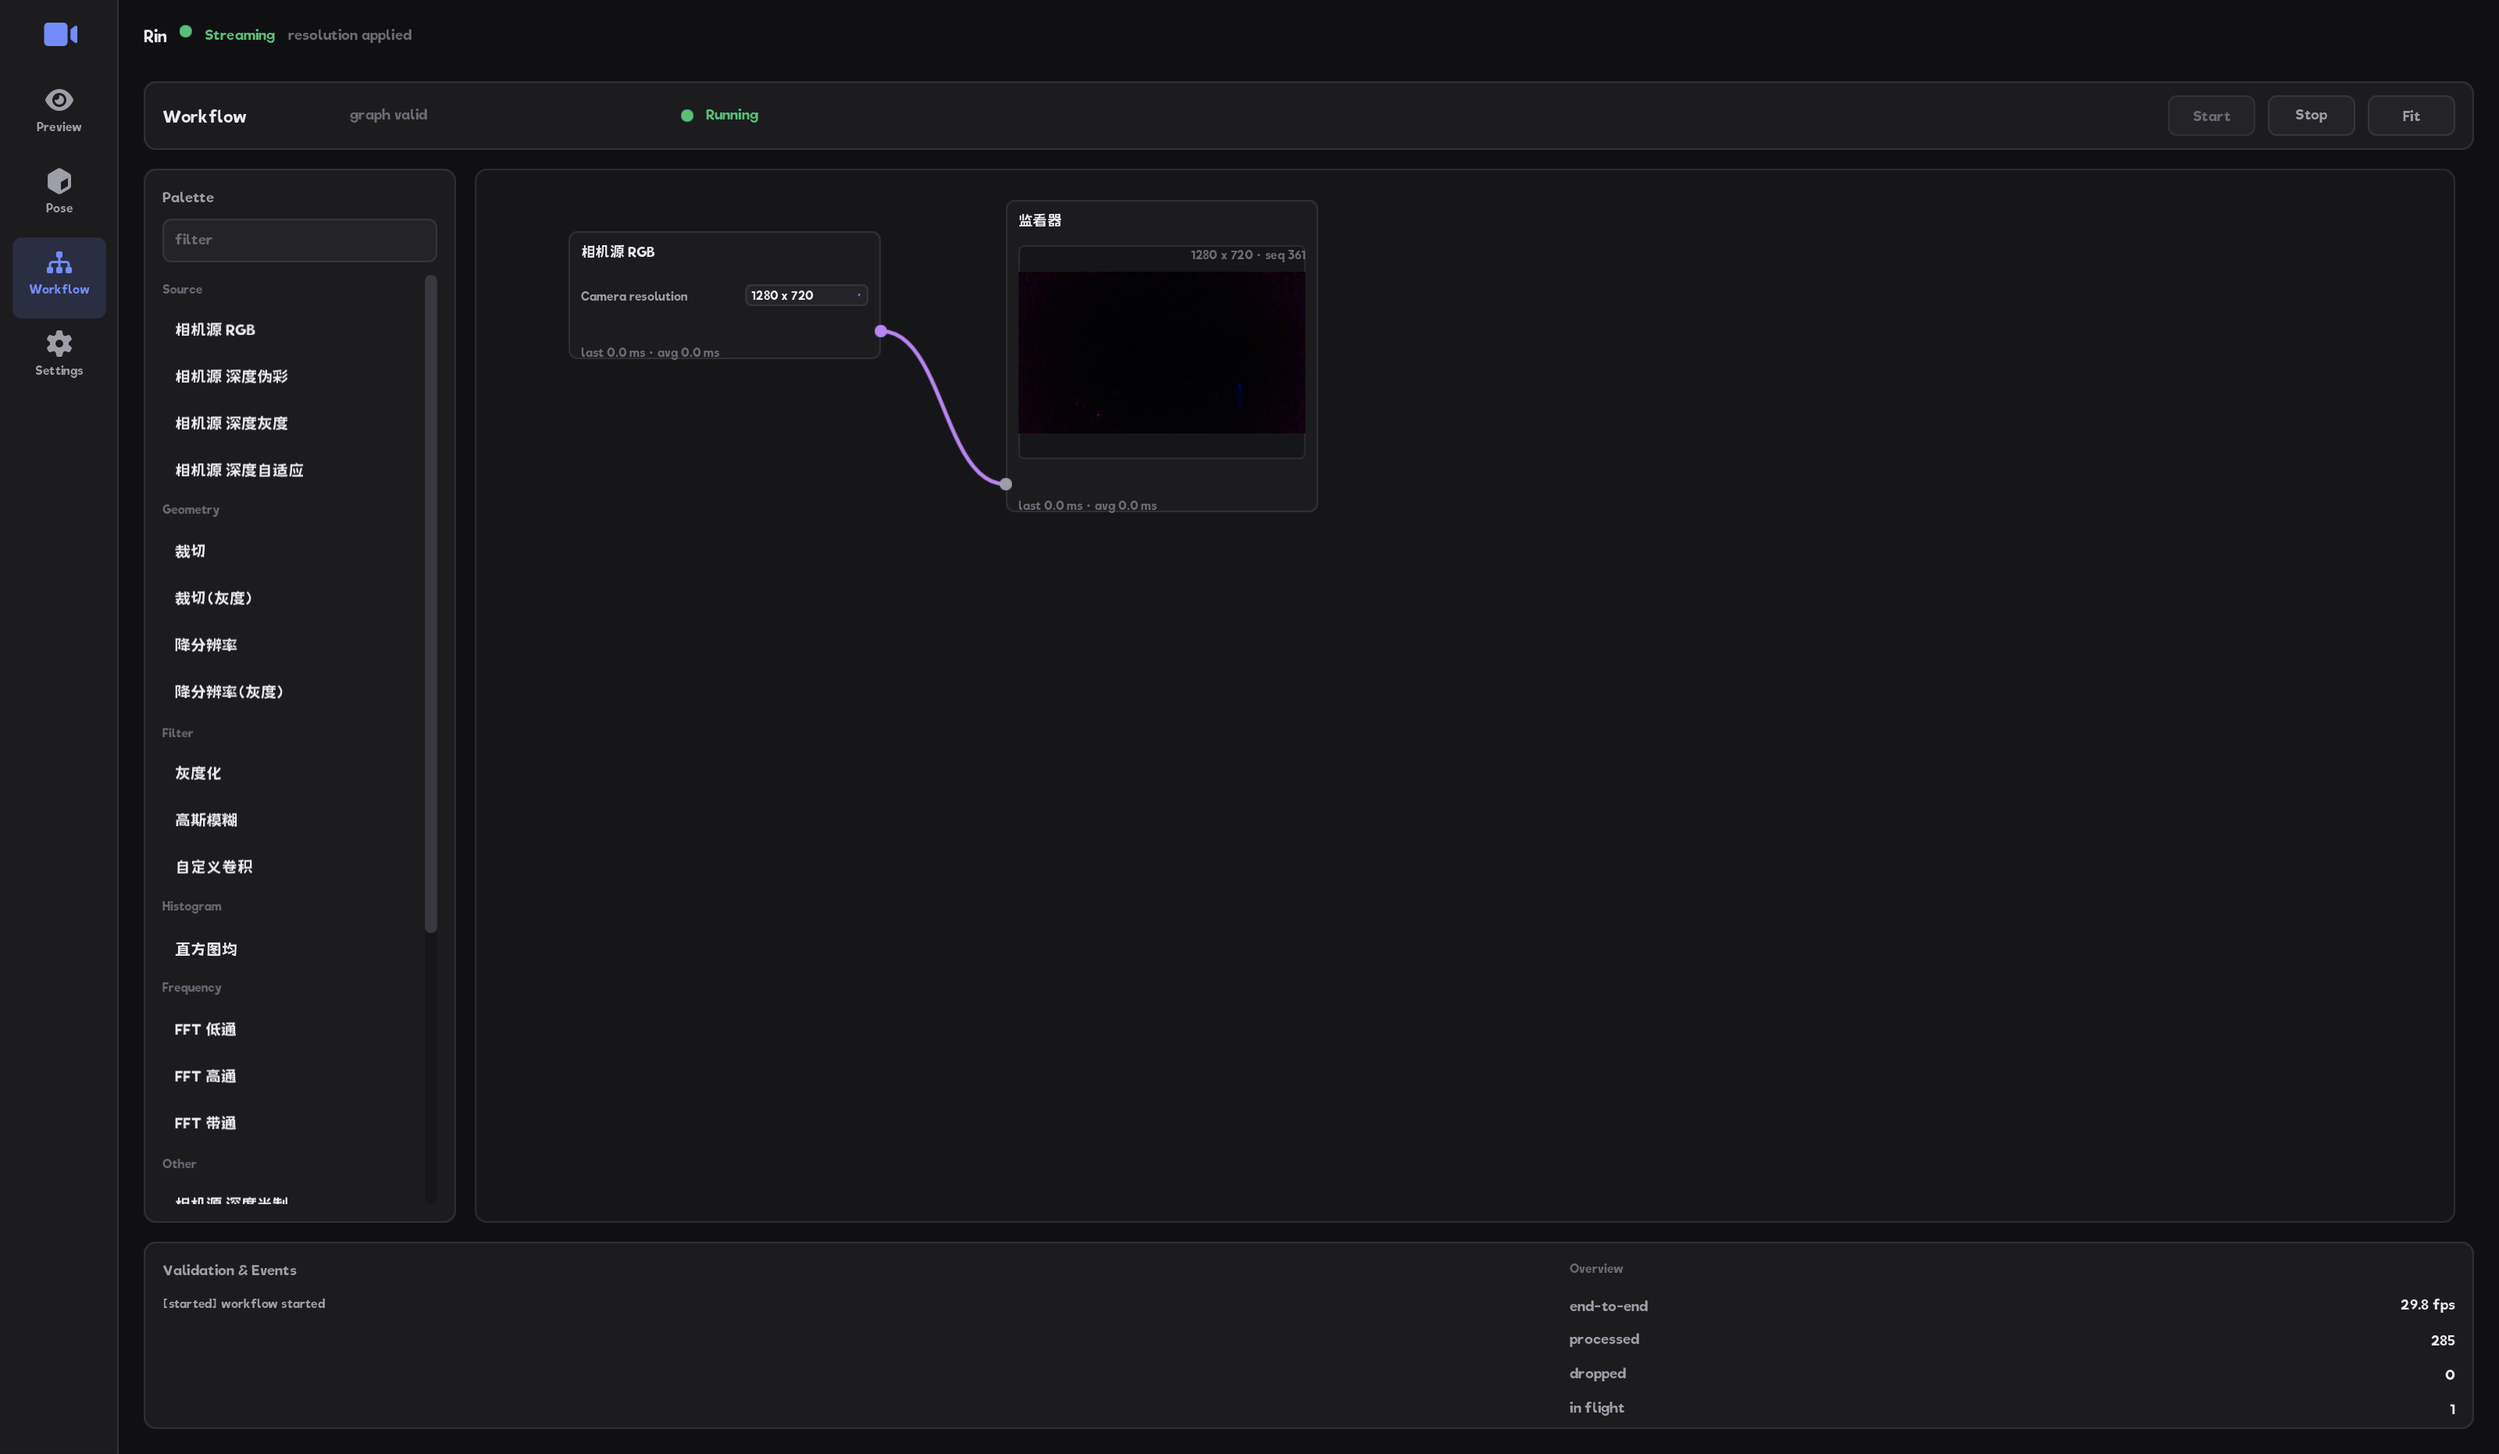
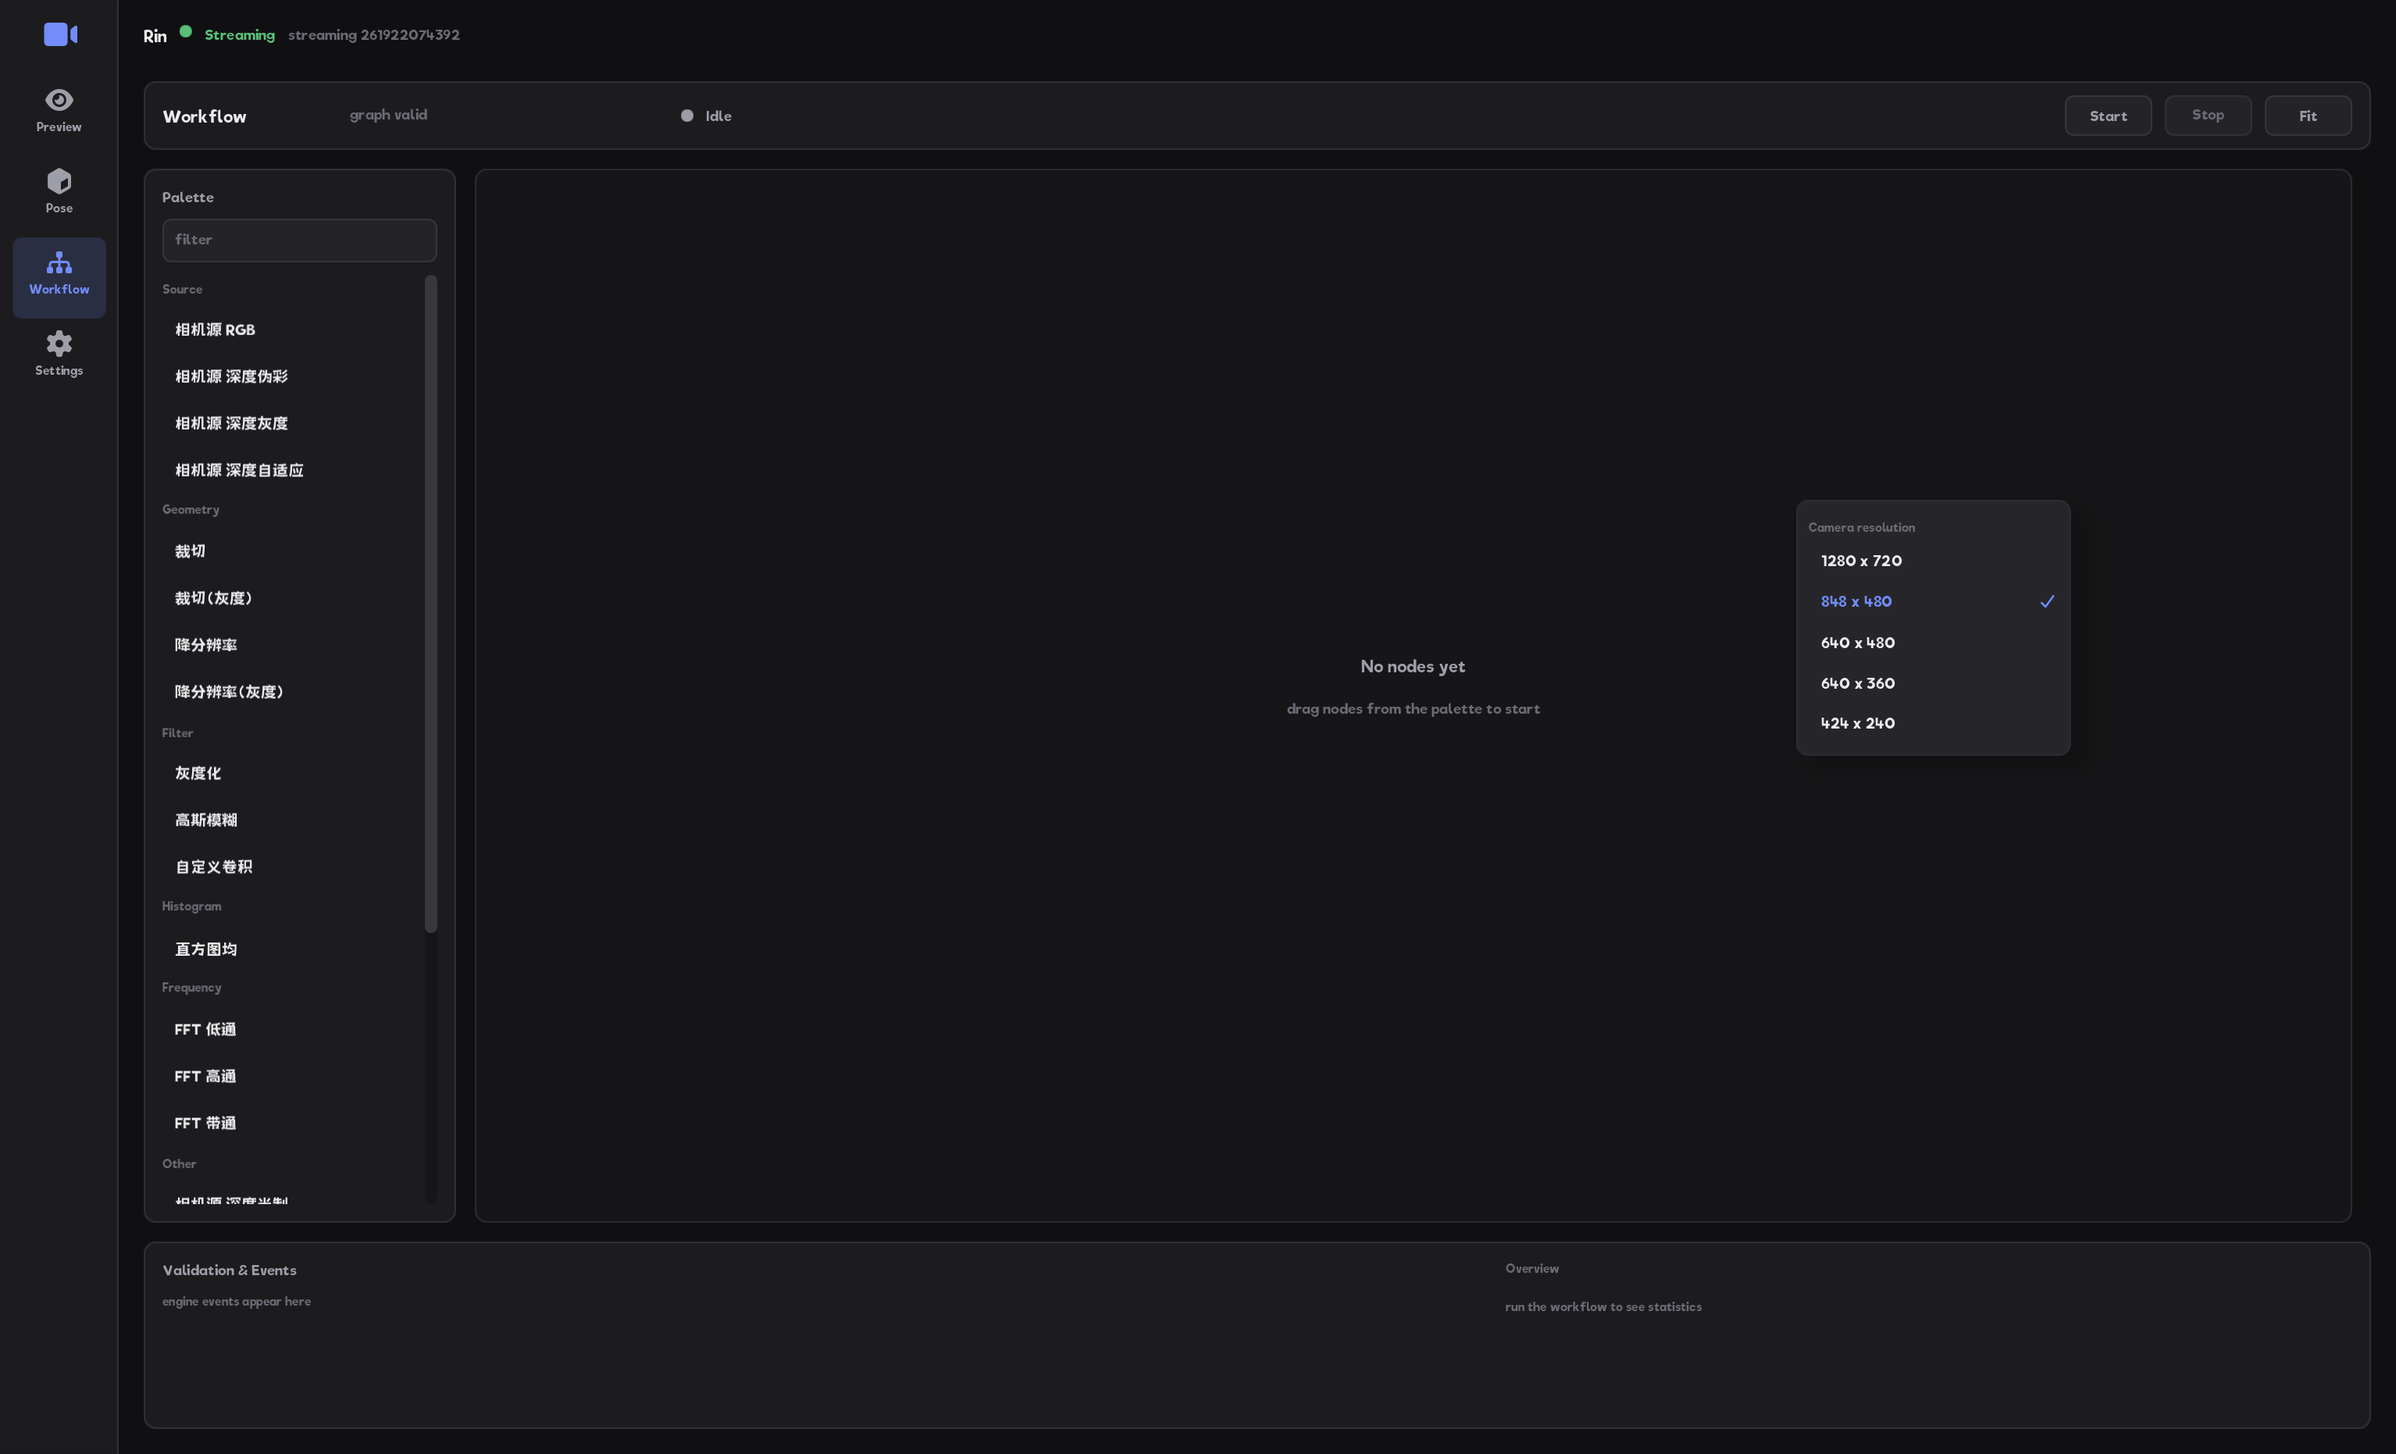
fix(viewer): wire resolution menu overlay and right-click create menu
resolve 专家升级通道定位的真实根因：分辨率下拉浮层的 composer
composeWorkflowResolutionMenu 定义后从未被调用（overlay 接线脚本当初中断
未写盘、被误判已落地）——两轮'点击无响应'实为回调触发后无人消费状态；
'components::mouseArea 在此嵌套下不响应'的结论不成立（无头探针 1:1 复刻
实证 EUI 输入路径正常，DEC-021 决策 4 分层设计无罪），相关注释与文档勘误。
连带修复同类缺口：右键创建菜单 menuOpen 自 M5-03 起仅被消费从未被置位
（真实右键从未打开过），补 ContextMenu 分支置位。

- app.cpp overlay 层调用分辨率浮层（selectedIndex 每帧刷新）；Esc 收起。
- 画布 onPress ContextMenu 分支置位 menuOpen（窗口坐标）。
- 创建菜单与分辨率浮层互斥（双 scrim 不叠加）。
- 验证改用像素断言（不再目测）：分辨率菜单面板 352x324（=2x176x164 精确
  匹配）、创建菜单 380x1330、基线无面板；截图替换为真实浮层。

diff --git a/apps/viewer/node_canvas.hpp b/apps/viewer/node_canvas.hpp
@@ -833,10 +833,11 @@ inline void composeInlineParams(eui::Ui& ui, WorkflowCanvasState& state,
             .maxWidth(innerW * 0.55f * s)
             .build();
         // 下拉触发器（M11 验收反馈：下拉选择；点击打开窗口级选项浮层，
-        // composeWorkflowResolutionMenu）。触发用 rect.onClick——与本位置
-        // 既有实证机制一致（M11 首轮点击循环胶囊即此路径；components::
-        // mouseArea 在此嵌套下不响应，验收实证）。浮层窗口坐标 compose 期
-        // 精确计算（画布区矩形 + 节点屏幕原点 + 触发器屏幕偏移）。
+        // composeWorkflowResolutionMenu，由 app.cpp overlay 层合成）。触发用
+        // rect.onClick；浮层窗口坐标 compose 期精确计算（画布区矩形 + 节点
+        // 屏幕原点 + 触发器屏幕偏移）。勘误（resolve 升级分析）：首版
+        // "mouseArea 在此嵌套下不响应"的结论不成立——EUI 输入路径经无头
+        // 探针实证正常，真实断点是浮层 composer 从未接线。
         const float pillW = innerW * 0.45f - kSpace1;
         const float pillX = (innerX + innerW - pillW) * s;
         const float pillY = (rowY + 2.0f) * s;
@@ -852,6 +853,7 @@ inline void composeInlineParams(eui::Ui& ui, WorkflowCanvasState& state,
             .border(kBorderHairline, tokens.inputBorder)
             .states(tokens.input, tokens.inputBorderHover, tokens.inputBorderHover)
             .onClick([&state, menuX, menuY] {
+                state.menuOpen = false;  // 与创建菜单互斥（双 scrim 不可叠加）。
                 state.resolutionMenuOpen = true;
                 state.resolutionMenuPos = {menuX, menuY};
             })
@@ -1418,6 +1420,16 @@ inline void composeWorkflowCanvas(eui::Ui& ui, WorkflowCanvasState& state,
                                                   event.modifiers.alt);
                     if (!result.message.empty()) {
                         state.feedback = result.message;
+                    }
+                    if (result.kind == PressResult::Kind::ContextMenu) {
+                        // 右键空白处打开创建菜单（§5.2.2；menuPos 为窗口坐标，
+                        // composeWorkflowCreateMenu 全窗浮层）。接线修复：自
+                        // M5-03 起 menuOpen 仅被消费从未被置位，真实右键从未
+                        // 打开过（脚本化验证只直改状态），随 M11 验收排查一并
+                        // 修复；与分辨率浮层互斥（双 scrim 不可叠加）。
+                        state.menuOpen = true;
+                        state.menuPos = {event.globalX, event.globalY};
+                        state.resolutionMenuOpen = false;
                     }
                     if (result.graphChanged) {
                         // 右键删除节点等即时变更：与松开路径同一引擎同步出口。

diff --git a/apps/viewer/app.cpp b/apps/viewer/app.cpp
@@ -1002,6 +1002,9 @@ void compose(eui::Ui& ui, const eui::Screen& screen) {
                 composeWorkflowCreateMenu(ui, ctx.workflowCanvas, ctx.workflow.get(), screen.width,
                                           screen.height);
                 composeWorkflowDragGhost(ui, ctx.workflowCanvas);
+                ctx.cameraResolutionBinding.selectedIndex = ctx.resolutionIndex.get();
+                composeWorkflowResolutionMenu(ui, ctx.workflowCanvas, &ctx.cameraResolutionBinding,
+                                              screen.width, screen.height);
             } else if (ctx.nav.current == WorkbenchPage::Preview) {
                 std::vector<std::string> deviceLabels;
                 deviceLabels.reserve(ctx.deviceOptions.size());
@@ -1113,6 +1116,7 @@ DslAppConfig makeDslAppConfig() {
                             canvas.menuOpen = false;
                             canvas.menuFilter.set("");
                         }
+                        canvas.resolutionMenuOpen = false;
                         // 取消进行中的拖拽（框选/连线/平移；§5.3 空白松开语义）。
                         canvas.interaction.mode = viewer::InteractionMode::None;
                         canvas.interaction.draggedNode = rin::kInvalidNode;

diff --git a/docs/plans/m11-canvas-monitor-inline.md b/docs/plans/m11-canvas-monitor-inline.md
@@ -124,7 +124,22 @@ LRS-20261007-001 阻断，补跑条件见台账。
 下拉触发器（值 + ▾），点击打开窗口级选项浮层（`composeWorkflowResolutionMenu`，
 创建菜单同款 overlay 模式：scrim + 面板 + 选中项 ✓，Esc/画布外击收起，选项
 点击经既有 onPick 命令路径）；DEC-021 决策 6 相应修订（枚举参数维持点击
-循环）。截图 `screenshots/m11/m11_resolution_menu.png`（1280 x 720 选中 ✓）。
+循环）。
+
+**反馈 A 追加两轮返修（真实根因经 resolve 专家升级通道定位）**：首版与
+二版（mouseArea.onTap → rect.onClick）均"悬停正常、点击无响应"——两次
+均为**浮层 composer 从未接线**（app.cpp overlay 层缺失调用；当时接线脚本
+中断言失败未写盘，被误判为已落地），回调实际已触发、无人消费状态；
+"components::mouseArea 在此嵌套下不响应"的结论不成立（EUI 输入路径经
+无头探针 1:1 复刻实证正常，DEC-021 决策 4 分层设计无罪）。连带发现同类
+潜在缺口：**右键创建菜单自 M5-03 起 menuOpen 仅被消费从未被置位**（历史
+脚本化验证只直改状态，真实右键从未打开过），一并接线。修复四件套：
+overlay 调用 / Esc 收起 / 右键置位（PressResult ContextMenu 分支，窗口
+坐标）/ 创建菜单与分辨率浮层互斥。验证改用**像素断言**（不再依赖目测，
+此前两次目测误读教训）：程序化置位同字段后，分辨率菜单面板检测
+352×324 px（=2×176×164 精确匹配）、创建菜单 380×1330、基线无面板；
+点击路由侧由升级分析的无头探针证据背书。截图
+`screenshots/m11/m11_resolution_menu.png`（本轮真实浮层，含选中 ✓）。
 
 **反馈 B（缺陷）：切换分辨率后相机输入不再更新**。根因链（主循环仪表化
 复现 + 裸 librealsense 探针对照定位）：分辨率档位的 `enableMotion` 粘性取自

diff --git a/CHANGELOG.md b/CHANGELOG.md
@@ -27,9 +27,14 @@
 
 - 用户验收反馈（2026-10-07）：相机源分辨率入口改为**下拉浮层选择**（窗口级
   overlay + 选中项 ✓，Esc/外击收起；DEC-021 决策 6 修订——枚举参数维持
-  点击循环）；修复**切换分辨率后相机输入停更**——分辨率档位的 enableMotion
-  粘性恒取默认请求 true，`RIN_DISABLE_MOTION=1` 会话下 restream 命令把运动流
-  重新带回，在坏 IIO 宿主（LRS-20261007-001）即合成帧饿死、采集零帧；现该
+  点击循环）。下拉功能经两轮返修：真实根因是**浮层 composer 未接线**
+  （resolve 专家升级通道定位：EUI 输入路径无头探针实证正常，此前"mouseArea
+  不响应"结论勘误撤销）；连带修复**右键创建菜单自 M5 起从未能打开**的同类
+  接线缺口（menuOpen 从未被置位）。修复以像素断言验证（菜单面板
+  352×324 精确匹配 2×176×164，基线无面板）。
+- 修复**切换分辨率后相机输入停更**：分辨率档位的 enableMotion 粘性恒取
+  默认请求 true，`RIN_DISABLE_MOTION=1` 会话下 restream 命令把运动流重新
+  带回，在坏 IIO 宿主（LRS-20261007-001）即合成帧饿死、采集零帧；现该
   环境变量为会话级（启动请求与档位粘性同源），切换后帧流持续（实测
   848x480→1280x720 帧计数持续增长）。
 - 工作流页五区改四区（右栏移除）：参数编辑就地化（如上）、中间结果由
